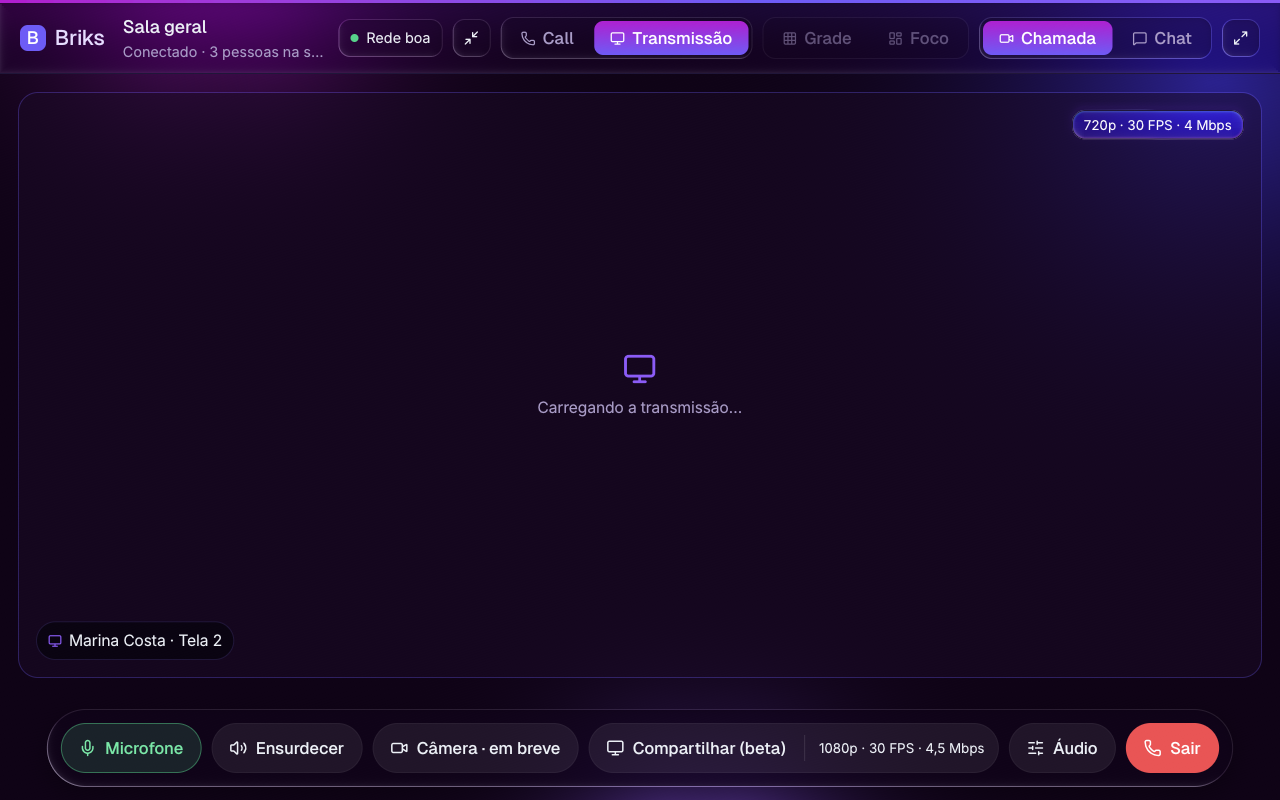
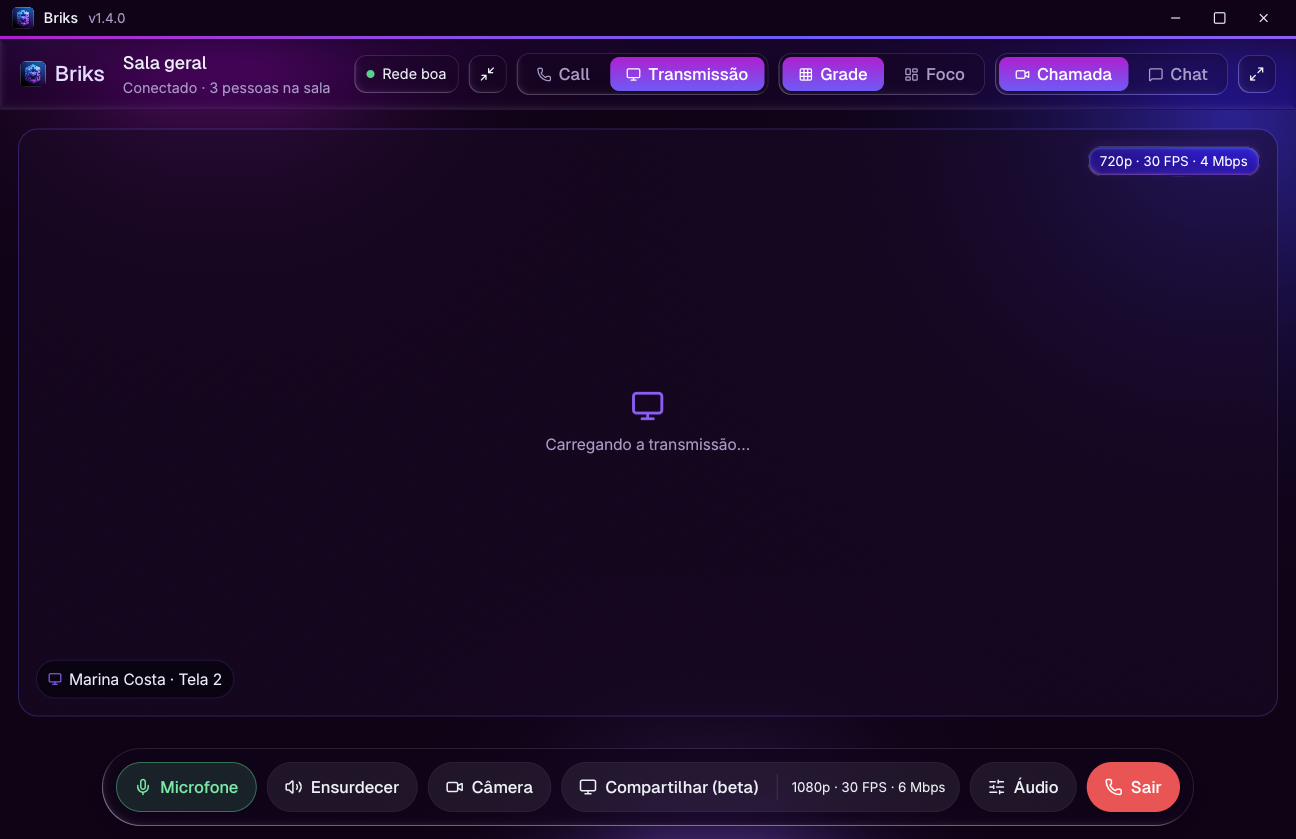
cui: zoom tambem na propria previa; popover de qualidade sem botao Aplicar (vale sozinho apos 0,4 s) e com texto quebrando na largura; roteiros com coordenadas novas

Changed region(s): [[0.0, 0.0, 1.0, 0.2188], [0.0312, 0.7812, 0.9688, 0.9688], [0.4062, 0.4375, 0.5625, 0.5625]]

diff --git a/apps/desktop-cui/src/ui_share.c b/apps/desktop-cui/src/ui_share.c
@@ -40,8 +40,8 @@ static const char *const BR_LABEL[4] = { "Automático", "Alto", "Máximo", "Pers
 
 /* mesmo cálculo de video::auto_bitrate no core */
 static int auto_kbps(int h, int fps) {
-    double base = h <= 480 ? 1200 : h <= 720 ? 2500 : h <= 1080 ? 4500 : h <= 1440 ? 9000 : 18000;
-    return (int)(base * pow((fps < 1 ? 1 : fps) / 30.0, 0.75));
+    double base = h <= 480 ? 1800 : h <= 720 ? 3500 : h <= 1080 ? 6000 : h <= 1440 ? 10000 : 18000;   /* perfis do Electron: 720p30 3,5 / 1080p30 6 Mbps */
+    return (int)(base * pow((fps < 1 ? 1 : fps) / 30.0, 0.55));
 }
 static int chosen_kbps(const share_state_t *q) {   /* o que será pedido ao core (0 = automático) */
     int a = auto_kbps(RES_H[q->res], FPS_V[q->fps]), k = 0;
@@ -441,6 +441,11 @@ static void beta_note(cui_ctx *ui, const char *text) {
     }
 }
 
+/* linha de texto que quebra dentro da largura do painel em vez de passar da borda */
+static void wrap_line(cui_ctx *ui, const char *t, float size, cui_color col) {
+    cui_box(ui, .width = CUI_FILL) { cui_text(ui, t, .size = size, .color = col); }
+}
+
 static bool quality_controls(cui_ctx *ui, share_state_t *q) {
     bool ch = false;
     cui_column(ui, .gap = 10, .width = CUI_FILL) {
@@ -453,9 +458,9 @@ static bool quality_controls(cui_ctx *ui, share_state_t *q) {
             ch |= seg(ui, "fps", FPS_LABEL, NULL, FPS_N, &q->fps);
         }
         cui_box(ui, .dir = CUI_ROW, .width = CUI_FILL, .justify = CUI_JUSTIFY_BETWEEN, .align = CUI_ALIGN_CENTER) {
-            cui_column(ui, .gap = 1) {
-                cui_text(ui, "Se a rede ou o PC apertar", .size = 13, .color = B_MUTED);
-                cui_text(ui, q->content ? "Fluidez: cede resolução antes de quadros" : "Nitidez: cede quadros antes de resolução", .size = 11, .color = CUI_RGBA(0xa592b8aa), .nowrap = true);
+            cui_column(ui, .gap = 1, .width = CUI_FILL) {
+                wrap_line(ui, "Se a rede ou o PC apertar", 13, B_MUTED);
+                wrap_line(ui, q->content ? "Fluidez: cede resolução antes de quadros" : "Nitidez: cede quadros antes de resolução", 11, CUI_RGBA(0xa592b8aa));
             }
             static const char *const pr[2] = { "Nitidez", "Fluidez" };
             ch |= seg(ui, "pri", pr, NULL, 2, &q->content);
@@ -481,7 +486,7 @@ static bool quality_controls(cui_ctx *ui, share_state_t *q) {
             }
         } else {
             snprintf(line, sizeof line, q->br_mode == 0 ? "Automático: até %s; baixa e volta sozinho conforme a rede." : "Teto de %s; o ajuste automático trabalha abaixo dele.", r);
-            cui_text(ui, line, .size = 12, .color = B_MUTED, .nowrap = true);
+            wrap_line(ui, line, 12, B_MUTED);
         }
     }
     return ch;
@@ -623,24 +628,26 @@ void ui_share_bar(cui_ctx *ui, app_state_t *s) {
         cui_popover(ui, "shq", .placement = CUI_PLACE_TOP, .width = 520, .pad = 16, .gap = 10) {
             cui_text(ui, "Qualidade da transmissão", .font = CUI_FONT_DISPLAY, .size = 15);
             beta_note(ui, "Em queda brusca de rede a imagem pode cair bastante ou travar por alguns segundos. Com mais de um espectador, quem estiver com a rede ruim pode ficar sem imagem.");
-            static bool dirty;
-            if (quality_controls(ui, q)) dirty = true;
+            /* as escolhas valem sozinhas: transmitindo, ~0,4 s depois da última mudança o codificador é reiniciado com elas (um clique
+               seguido de outro não reinicia duas vezes); fora da transmissão ficam salvas para a próxima */
+            static double apply_at = -1;
+            if (quality_controls(ui, q) && q->active) apply_at = cui_time(ui) + 0.4;
+            if (apply_at >= 0) { if (!q->active) apply_at = -1; else if (cui_time(ui) >= apply_at) { apply_at = -1; send_start(s, q->last_kind, q->last_id, q->label); } else cui_request_wakeup(ui, 0.2f); }
             if (q->active) {
                 /* telemetria local, ao vivo */
                 char st[240];
                 snprintf(st, sizeof st, "No ar: %s · %.0f FPS · %d kbps (alvo %d FPS · %d kbps)", res_name(q->live_h ? q->live_h : q->h), q->stat_fps, q->stat_kbps, q->target_fps, q->target_kbps);
-                cui_text(ui, st, .size = 12, .color = B_TEXT, .nowrap = true);
+                wrap_line(ui, st, 12, B_TEXT);
                 snprintf(st, sizeof st, "Rede: estimada %d kbps · perda %.1f%% · RTT %d ms · reenvios %d/s", q->est_kbps, q->loss_pct, q->rtt_ms, q->rtx);
-                cui_text(ui, st, .size = 12, .color = B_MUTED, .nowrap = true);
+                wrap_line(ui, st, 12, B_MUTED);
                 snprintf(st, sizeof st, "Codificador: %s%s · %.1f ms/quadro · CPU %d%%", q->encoder[0] ? q->encoder : "H264", q->hardware ? " (GPU)" : " (software)", q->enc_ms, q->cpu);
-                cui_text(ui, st, .size = 12, .color = B_MUTED, .nowrap = true);
+                wrap_line(ui, st, 12, B_MUTED);
                 if (q->black) cui_text(ui, "A fonte está saindo preta. Jogos em tela cheia exclusiva e conteúdo protegido não podem ser capturados: use janela sem bordas.", .size = 12, .color = CUI_RGB(0xf5d9a0));
                 if (q->adapting[0]) {
                     snprintf(st, sizeof st, !strcmp(q->adapting, "cpu") ? "Adaptando: o PC não deu conta; qualidade reduzida até caber." : "Adaptando à rede%s%s: qualidade reduzida, volta sozinha.", q->reason[0] ? " (" : "", q->reason[0] ? (!strcmp(q->reason, "perda") ? "perda)" : "atraso)") : "");
-                    cui_text(ui, st, .size = 12, .color = CUI_RGB(0xf5d9a0), .nowrap = true);
+                    wrap_line(ui, st, 12, CUI_RGB(0xf5d9a0));
                 }
-                if (cui_button(ui, "Aplicar na transmissão", .variant = CUI_BUTTON_PRIMARY, .disabled = !dirty)) { dirty = false; send_start(s, q->last_kind, q->last_id, q->label); cui_popover_close(ui, "shq"); }
-            } else dirty = false;
+            }
         }
         }
     }
@@ -750,7 +757,7 @@ static bool emit_tile(cui_ctx *ui, app_state_t *s, int key, bool compact) {
         bool has = fv_update(ui, s, &g_fv[key], path);
         snprintf(title, sizeof title, "Você · %s", q->label[0] ? q->label : "sua tela");
         quality_chip(q, chip, sizeof chip);
-        return video_tile(ui, key, has ? g_fv[key].tex : 0, g_fv[key].w, g_fv[key].h, title, chip, "Preparando a prévia…", NULL, NULL, compact);
+        return video_tile(ui, key, has ? g_fv[key].tex : 0, g_fv[key].w, g_fv[key].h, title, chip, "Preparando a prévia…", NULL, &g_zoom[key], compact);
     }
     if (key == FV2(BRIKS_MAX_PEERS)) {
         preview_path_n(path, sizeof path, true);
@@ -759,7 +766,7 @@ static bool emit_tile(cui_ctx *ui, app_state_t *s, int key, bool compact) {
         snprintf(title, sizeof title, "Você · %s (2ª tela)", q->second.label[0] ? q->second.label : "sua tela");
         fmt_rate(q->second.kbps, r, sizeof r);
         snprintf(chip, sizeof chip, "%s · %d FPS · %s", res_name(q->second.h), q->second.fps, r);
-        return video_tile(ui, key, has ? v->tex : 0, v->w, v->h, title, chip, "Preparando a prévia…", NULL, NULL, compact);
+        return video_tile(ui, key, has ? v->tex : 0, v->w, v->h, title, chip, "Preparando a prévia…", NULL, &g_zoom[key], compact);
     }
     const bool two = key >= FV_N; const int i = two ? key - FV_N : key;
     const char *nm = s->rtc_peers[i].name[0] ? s->rtc_peers[i].name : "Participante";
